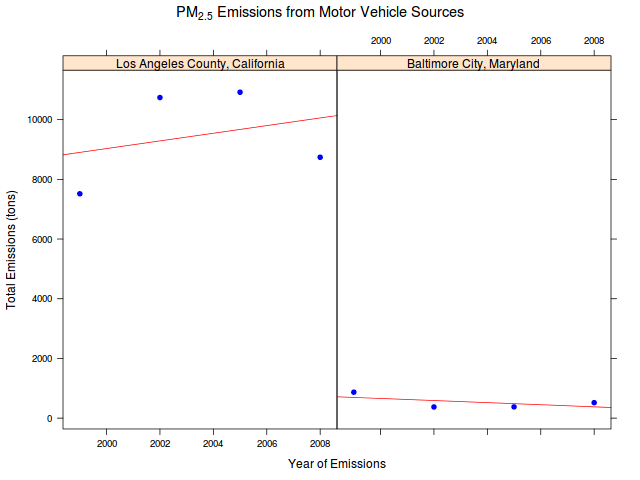
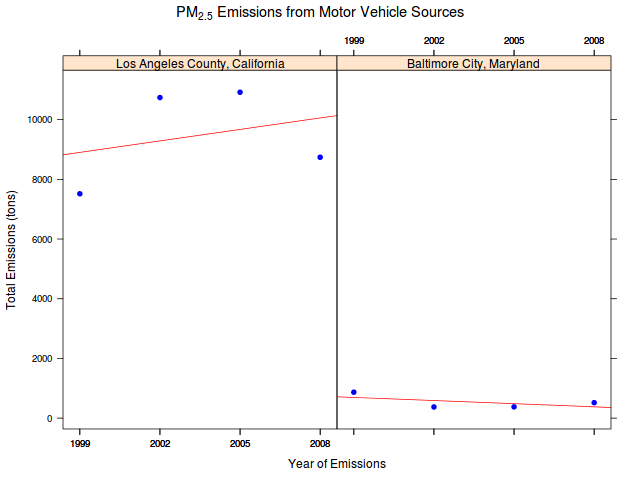
plot6 set scales

diff --git a/README.md b/README.md
@@ -7,6 +7,7 @@ CONTENTS
 * [Plot 4][]
 * [Plot 5][]
 * [Plot 6][]
+* [Resources][]
 
 -----
 
@@ -23,6 +24,9 @@ The plot below shows that the total emissions from PM2.5 have decreased in the
 United States from 1999 to 2008.
 
 ![PM[2.5] Emission totals for all sources](plot1.png)
+
+![PM[2.5] Emission totals for all sources](plot1-1.png)
+
 
 Plot 2
 ======
@@ -80,7 +84,7 @@ from motor vehicle sources in Los Angeles County, California. Which city has
 seen greater changes over time in motor vehicle emissions?*
 
 * Baltimore City, Maryland (`fips` == "24510")
-* Los Angeles County, California (fips == "06037")
+* Los Angeles County, California (`fips` == "06037")
 
 Baltimore City emission have remained comparatively static compared to the Los
 Angeles County.
@@ -93,3 +97,4 @@ Resources
 * [Project Data Set](https://d396qusza40orc.cloudfront.net/exdata%2Fdata%2FNEI_data.zip) [29Mb]
 * [EPA National Emissions Inventory web site](http://www.epa.gov/ttn/chief/eiinformation.html)
 * [Plot hints](https://www.stat.auckland.ac.nz/~paul/RGraphics/chapter3.html)
+* [An easy way to start using R in your research exploratory data analysis](http://bitesizebio.com/19666/an-easy-way-to-start-using-r-in-your-research-exploratory-data-analysis/)
